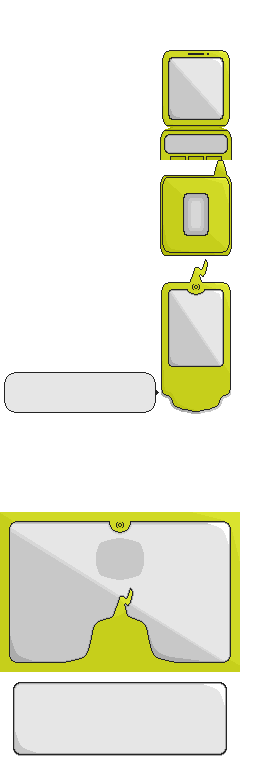
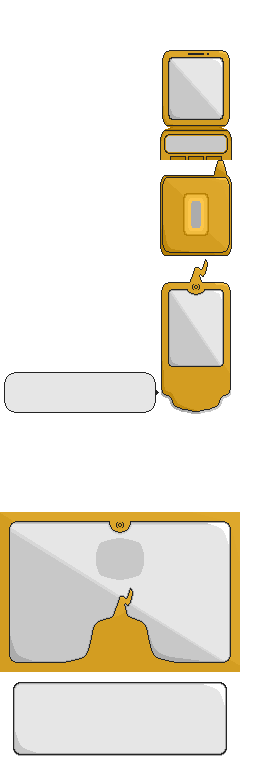
Reapply "Update to use Phants Tiles"
This reverts commit 71eec666aa58006283402fb487d3c0d57cf7da27.

Changed region(s): [[0.0, 0.6562, 0.9375, 0.875], [0.625, 0.0625, 0.9062, 0.4062], [0.625, 0.375, 0.9062, 0.5625]]

diff --git a/src/rotom_start_menu.c b/src/rotom_start_menu.c
@@ -245,58 +245,48 @@ static const u32 sRotomPhone_SaveScreenTiles[] =                INCBIN_U32("grap
 static const u32 sRotomPhone_SaveScreenTilemap[] =              INCBIN_U32("graphics/rotom_start_menu/save_screen/save_screen.bin.smolTM");
 static const u16 sRotomPhone_SaveScreenPalette[] =              INCBIN_U16("graphics/rotom_start_menu/save_screen/save_screen.gbapal");
 
+static const u16 sRotomPhonePalette_Rotom[] =                   INCBIN_U16("graphics/rotom_start_menu/palettes/rotom.gbapal");
 static const u16 sRotomPhonePalette_Black[] =                   INCBIN_U16("graphics/rotom_start_menu/palettes/black.gbapal");
-static const u16 sRotomPhonePalette_Red[] =                     INCBIN_U16("graphics/rotom_start_menu/palettes/red.gbapal");
-static const u16 sRotomPhonePalette_Yellow[] =                  INCBIN_U16("graphics/rotom_start_menu/palettes/yellow.gbapal");
-static const u16 sRotomPhonePalette_Green[] =                   INCBIN_U16("graphics/rotom_start_menu/palettes/green.gbapal");
-static const u16 sRotomPhonePalette_Purple[] =                  INCBIN_U16("graphics/rotom_start_menu/palettes/purple.gbapal");
 static const u16 sRotomPhonePalette_Blue[] =                    INCBIN_U16("graphics/rotom_start_menu/palettes/blue.gbapal");
-static const u16 sRotomPhonePalette_Turquoise[] =               INCBIN_U16("graphics/rotom_start_menu/palettes/turquoise.gbapal");
-static const u16 sRotomPhonePalette_Rose[] =                    INCBIN_U16("graphics/rotom_start_menu/palettes/rose.gbapal");
 static const u16 sRotomPhonePalette_Brown[] =                   INCBIN_U16("graphics/rotom_start_menu/palettes/brown.gbapal");
-static const u16 sRotomPhonePalette_DarkGreen[] =               INCBIN_U16("graphics/rotom_start_menu/palettes/dark_green.gbapal");
-static const u16 sRotomPhonePalette_WineRed[] =                 INCBIN_U16("graphics/rotom_start_menu/palettes/wine_red.gbapal");
+static const u16 sRotomPhonePalette_Forest[] =                  INCBIN_U16("graphics/rotom_start_menu/palettes/forest.gbapal");
+static const u16 sRotomPhonePalette_Green[] =                   INCBIN_U16("graphics/rotom_start_menu/palettes/green.gbapal");
+static const u16 sRotomPhonePalette_Lavender[] =                INCBIN_U16("graphics/rotom_start_menu/palettes/lavender.gbapal");
 static const u16 sRotomPhonePalette_Navy[] =                    INCBIN_U16("graphics/rotom_start_menu/palettes/navy.gbapal");
+static const u16 sRotomPhonePalette_Pink[] =                    INCBIN_U16("graphics/rotom_start_menu/palettes/pink.gbapal");
+static const u16 sRotomPhonePalette_Purple[] =                  INCBIN_U16("graphics/rotom_start_menu/palettes/purple.gbapal");
+static const u16 sRotomPhonePalette_Red[] =                     INCBIN_U16("graphics/rotom_start_menu/palettes/red.gbapal");
+static const u16 sRotomPhonePalette_Rose[] =                    INCBIN_U16("graphics/rotom_start_menu/palettes/rose.gbapal");
+static const u16 sRotomPhonePalette_Turquoise[] =               INCBIN_U16("graphics/rotom_start_menu/palettes/turquoise.gbapal");
 static const u16 sRotomPhonePalette_White[] =                   INCBIN_U16("graphics/rotom_start_menu/palettes/white.gbapal");
+static const u16 sRotomPhonePalette_Yellow[] =                  INCBIN_U16("graphics/rotom_start_menu/palettes/yellow.gbapal");
+
 
 static const u16 *const sRotomPhone_StartMenu_Palettes[ROTOM_PHONE_COLOUR_COUNT] =
 {
+    [ROTOM_PHONE_ROTOM] =       sRotomPhonePalette_Rotom,
     [ROTOM_PHONE_BLACK] =       sRotomPhonePalette_Black,
-    [ROTOM_PHONE_RED] =         sRotomPhonePalette_Red,
-    [ROTOM_PHONE_YELLOW] =      sRotomPhonePalette_Yellow,
-    [ROTOM_PHONE_GREEN] =       sRotomPhonePalette_Green,
-    [ROTOM_PHONE_PURPLE] =      sRotomPhonePalette_Purple,
     [ROTOM_PHONE_BLUE] =        sRotomPhonePalette_Blue,
-    [ROTOM_PHONE_TURQUOISE] =   sRotomPhonePalette_Turquoise,
-    [ROTOM_PHONE_ROSE] =        sRotomPhonePalette_Rose,
     [ROTOM_PHONE_BROWN] =       sRotomPhonePalette_Brown,
-    [ROTOM_PHONE_DARK_GREEN] =  sRotomPhonePalette_DarkGreen,
-    [ROTOM_PHONE_WINE_RED] =    sRotomPhonePalette_WineRed,
+    [ROTOM_PHONE_FOREST] =      sRotomPhonePalette_Forest,
+    [ROTOM_PHONE_GREEN] =       sRotomPhonePalette_Green,
+    [ROTOM_PHONE_LAVENDER] =    sRotomPhonePalette_Lavender,
     [ROTOM_PHONE_NAVY] =        sRotomPhonePalette_Navy,
+    [ROTOM_PHONE_PINK] =        sRotomPhonePalette_Pink,
+    [ROTOM_PHONE_PURPLE] =      sRotomPhonePalette_Purple,
+    [ROTOM_PHONE_RED] =         sRotomPhonePalette_Red,
+    [ROTOM_PHONE_ROSE] =        sRotomPhonePalette_Rose,
+    [ROTOM_PHONE_TURQUOISE] =   sRotomPhonePalette_Turquoise,
     [ROTOM_PHONE_WHITE] =       sRotomPhonePalette_White,
+    [ROTOM_PHONE_YELLOW] =      sRotomPhonePalette_Yellow,
 };
 
 static const u16 *RotomPhone_StartMenu_GetPhoneColour(void)
 {
-    switch (RP_CONFIG_PHONE_COLOUR)
-    {
-        case ROTOM_PHONE_BLACK:
-        case ROTOM_PHONE_RED:
-        case ROTOM_PHONE_YELLOW:
-        case ROTOM_PHONE_GREEN:
-        case ROTOM_PHONE_PURPLE:
-        case ROTOM_PHONE_BLUE:
-        case ROTOM_PHONE_TURQUOISE:
-        case ROTOM_PHONE_ROSE:
-        case ROTOM_PHONE_BROWN:
-        case ROTOM_PHONE_DARK_GREEN:
-        case ROTOM_PHONE_WINE_RED:
-        case ROTOM_PHONE_NAVY:
-        case ROTOM_PHONE_WHITE:
-            return sRotomPhone_StartMenu_Palettes[RP_CONFIG_PHONE_COLOUR];
-        default:
-            return sRotomPhone_StartMenu_Palettes[ROTOM_PHONE_COLOUR_COUNT - ROTOM_PHONE_COLOUR_COUNT];
-    }
+    if (RP_CONFIG_PHONE_COLOUR >= ROTOM_PHONE_IKIGAI)
+        return sRotomPhone_StartMenu_Palettes[ROTOM_PHONE_ROTOM];
+    
+    return sRotomPhone_StartMenu_Palettes[RP_CONFIG_PHONE_COLOUR];
 }
 
 #if RP_CONFIG_PALETTE_BUFFER
@@ -463,13 +453,13 @@ static void SpriteCB_RotomPhone_OverworldMenu_RotomFace_Unload(struct Sprite* sp
 
 
 #define OW_FLIP_PHONE_TEXT_BG_COLOUR       12
-#define OW_FLIP_PHONE_TEXT_FG_COLOUR       4
-#define OW_FLIP_PHONE_TEXT_SHADOW_COLOUR   9
+#define OW_FLIP_PHONE_TEXT_FG_COLOUR       1
+#define OW_FLIP_PHONE_TEXT_SHADOW_COLOUR   10
 #define OW_ROTOM_PHONE_TEXT_BG_COLOUR      14
-#define OW_ROTOM_PHONE_TEXT_FG_COLOUR      4
-#define OW_ROTOM_PHONE_TEXT_SHADOW_COLOUR  9
+#define OW_ROTOM_PHONE_TEXT_FG_COLOUR      1
+#define OW_ROTOM_PHONE_TEXT_SHADOW_COLOUR  10
 #define RR_ROTOM_PHONE_TEXT_BG_COLOUR      14
-#define RR_ROTOM_PHONE_TEXT_FG_COLOUR      5
+#define RR_ROTOM_PHONE_TEXT_FG_COLOUR      1
 #define RR_ROTOM_PHONE_TEXT_SHADOW_COLOUR  10
 enum FontColor
 {

diff --git a/include/rotom_start_menu.h b/include/rotom_start_menu.h
@@ -200,23 +200,26 @@ flag, or save game options.
 
 enum RotomPhone_Colours
 {
+    ROTOM_PHONE_ROTOM,
     ROTOM_PHONE_BLACK,
-    ROTOM_PHONE_RED,
-    ROTOM_PHONE_YELLOW,
-    ROTOM_PHONE_GREEN,
-    ROTOM_PHONE_PURPLE,
     ROTOM_PHONE_BLUE,
-    ROTOM_PHONE_TURQUOISE,
-    ROTOM_PHONE_ROSE,
     ROTOM_PHONE_BROWN,
-    ROTOM_PHONE_DARK_GREEN,
-    ROTOM_PHONE_WINE_RED,
+    ROTOM_PHONE_FOREST,
+    ROTOM_PHONE_GREEN,
+    ROTOM_PHONE_LAVENDER,
     ROTOM_PHONE_NAVY,
+    ROTOM_PHONE_PINK,
+    ROTOM_PHONE_PURPLE,
+    ROTOM_PHONE_RED,
+    ROTOM_PHONE_ROSE,
+    ROTOM_PHONE_TURQUOISE,
     ROTOM_PHONE_WHITE,
+    ROTOM_PHONE_YELLOW,
+    ROTOM_PHONE_IKIGAI,
     ROTOM_PHONE_COLOUR_COUNT
 };
 
-#define RP_CONFIG_PHONE_COLOUR            ROTOM_PHONE_BLACK
+#define RP_CONFIG_PHONE_COLOUR            ROTOM_PHONE_IKIGAI
 #define RP_CONFIG_USE_ROTOM_PHONE         FlagGet(FLAG_SYS_POKEDEX_GET)
 #define RP_CONFIG_MONOCHROME_ICONS        FALSE
 #define RP_CONFIG_PALETTE_BUFFER          FALSE
